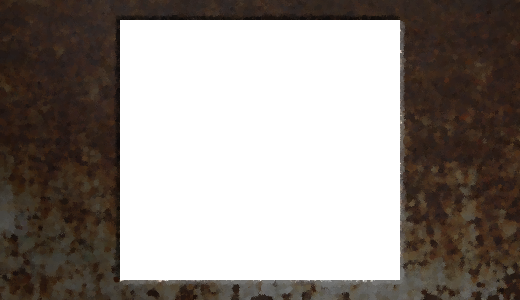
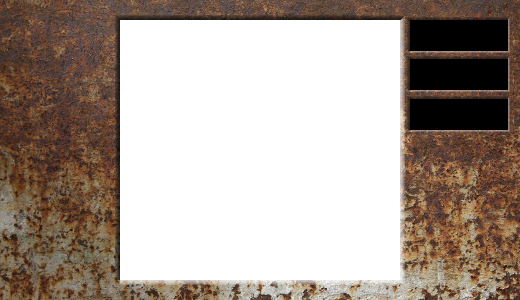
hero health bar reduces blocks while hero pain

diff --git a/dn1Online/src/game.js b/dn1Online/src/game.js
@@ -4,6 +4,9 @@ function GameScene() {
 	this.hero = null
 	this.cursors = null
 	this.lastDir = 'right'
+	this.heroHealthGroup = null
+	this.healthBlocksCurrent = 10
+	this.healthBlocksMax = 10
 	
 	// the string is used to check if the ogvw character gifts are collected in the correct order
 	this.collectedGiftsChar = ''
@@ -34,8 +37,8 @@ function GameScene() {
 	this.bullets = null
 	this.gunCoolsDown = 0
 	this.mines = null
-	this.heroPain = false
-	this.heroPainTime = 250
+	this.heroPainState = false
+	this.heroPainTime = 750
 	this.heroPainStopWatch = 0
 	this.gameCamsGroup = null
 	this.minirobotsGroup = null
@@ -129,6 +132,8 @@ GameScene.prototype.create = function() {
 	this.initTraps()
 	this.initWasherBoss()
 	this.initKeysAndGates()
+
+	this.initHealthBar()
 	
 	
 	// upon creating all game object instances let's add the collison polling
@@ -214,14 +219,14 @@ GameScene.prototype.update = function (time, delta) {
 				this.heroStepSound.play()
 			}
 			this.hero.setVelocityX(-140)
-			if (this.heroPain) {
+			if (this.heroPainState) {
 				this.hero.anims.play('heroPainLeft', true)
 			} else {
 				this.hero.anims.play('heroWalkLeft', true)
 			}
 		} else {
 			this.hero.setVelocityX(-this.jumpSpeed)
-			if (this.heroPain) {
+			if (this.heroPainState) {
 				this.hero.anims.play('heroPainLeft', true)
 			} else {
 				this.hero.anims.play('heroJumpLeft', true)
@@ -234,14 +239,14 @@ GameScene.prototype.update = function (time, delta) {
 				this.heroStepSound.play()
 			}
 			this.hero.setVelocityX(140)
-			if (this.heroPain) {
+			if (this.heroPainState) {
 				this.hero.anims.play('heroPainRight', true)
 			} else {
 				this.hero.anims.play('heroWalkRight', true)
 			}
 		} else {
 			this.hero.setVelocityX(this.jumpSpeed)
-			if (this.heroPain) {
+			if (this.heroPainState) {
 				this.hero.anims.play('heroPainRight', true)
 			} else {
 				this.hero.anims.play('heroJumpRight', true)
@@ -251,13 +256,13 @@ GameScene.prototype.update = function (time, delta) {
   } else {
 		this.hero.setVelocityX(0)
 		if(this.lastDir === 'left') {
-			if (this.heroPain) {
+			if (this.heroPainState) {
 				this.hero.anims.play('heroPainLeft', true)
 			} else {
 				this.hero.anims.play('heroIdleLeft')
 			}
 		} else {
-			if (this.heroPain) {
+			if (this.heroPainState) {
 				this.hero.anims.play('heroPainRight', true)
 			} else {
 				this.hero.anims.play('heroIdleRight')
@@ -294,15 +299,16 @@ GameScene.prototype.update = function (time, delta) {
 	}
 	// <-- use
 	// pain time -->
-	if (this.heroPain) {
+	if (this.heroPainState) {
 		this.heroPainStopWatch += delta
 	}
 	if(this.heroPainStopWatch > this.heroPainTime) {
 		if (!this.painSound.isPlaying) {
 			this.painSound.play()
 		}
-		this.heroPain = false
+		this.heroPainState = false
 		this.heroPainStopWatch = 0
+		this.heroPain()
 	}
 	// <-- pain time
 }
@@ -431,7 +437,7 @@ GameScene.prototype.initBouncerGuards = function() {
 }
 
 GameScene.prototype.initHero = function() {
-	this.hero = this.physics.add.sprite(864, 64, 'heroSpriteAtlas').play('heroJumpRight')
+	this.hero = this.physics.add.sprite(885, 64, 'heroSpriteAtlas').play('heroJumpRight')
 	this.hero.setSize(10, 32, true)
 	this.hero.setGravityY(300)
 	this.hero.setBounce(0.0)
@@ -515,49 +521,64 @@ GameScene.prototype.initKeysAndGates = function() {
 	})
 }
 
+GameScene.prototype.initHealthBar = function() {
+	this.heroHealthGroup = this.add.group()
+	for (let i = 0; i < this.healthBlocksMax; i++) {
+		let rect = this.add.rectangle(this.scale.canvas.width - 95 +  i * 9, 14, 7, 22, 0x00ff00)
+		rect.setOrigin(0, 0)
+		rect.setDepth(102)
+		rect.setScrollFactor(0)
+		this.heroHealthGroup.add(rect)
+		// let rect = this.heroHealthGroup.add(new Phaser.GameObjects.Rectangle(200, 200, 148, 148, 0x6666ff))
+		// rect.setOrigin(0, 0)
+		// rect.setDepth(102)
+		// this.add.circle(400, 200, 80, 0x9966ff);
+	}
+}
+
 GameScene.prototype.initCollision = function() {
 	// this function depends on all init functions
 	// mini robots -->
 	this.physics.add.overlap(this.hero, this.minirobotsGroup,  () => {
-		this.heroPain = true
+		this.heroPainState = true
 	})
 	// <-- mini robots
 	// giant robots -->
 	this.physics.add.overlap(this.hero, this.giantRobots,  () => {
-		this.heroPain = true
+		this.heroPainState = true
 	})
 	// <-- giant robots
 	// crocos -->
 	this.physics.add.overlap(this.hero, this.crocosGroup,  () => {
-		this.heroPain = true
+		this.heroPainState = true
 	})
 	// <-- crocos
 	// enemy bullets -->
 	this.physics.add.overlap(this.hero, this.enemyBullets, () => {
-		this.heroPain = true
+		this.heroPainState = true
 	})
 	// <-- enemy bullets
 	// wheel canon -->
 	this.physics.add.overlap(this.hero, this.wheelcanonsGroup, () => {
-		this.heroPain = true
+		this.heroPainState = true
 	})
 	// <-- wheel canon
 	// mines -->
 	this.physics.add.overlap(this.mines, this.hero, () => {
-		this.heroPain = true
+		this.heroPainState = true
 	})
 	// <-- mines
 	// spikes -->
 	this.physics.add.overlap(this.hero, this.decorationLayer,  (hero, deco) => {
 		if (deco.properties.spike) {
-			this.heroPain = true
+			this.heroPainState = true
 		}
 	})
 	// <-- spikes
 	// glow thrower -->
 	this.glowThrowers.forEach(glowThrower => {
 		this.physics.add.overlap(this.hero, glowThrower,  (hero, deco) => {
-			this.heroPain = true
+			this.heroPainState = true
 		})
 	})
 	// <-- glowthrower
@@ -566,7 +587,16 @@ GameScene.prototype.initCollision = function() {
 		gift.collected()
 	})
 	this.physics.add.overlap(this.hero, this.dynamiteGroup,  () => {
-		this.heroPain = true
+		this.heroPainState = true
 	})
 	// <-- gifts
+}
+
+GameScene.prototype.heroPain = function() {
+	this.healthBlocksCurrent -= 1
+	this.heroHealthGroup.children.iterate((healthBlock, index) => {
+		if (index >= this.healthBlocksCurrent) {
+			healthBlock.setVisible(false)
+		}
+	})
 }
